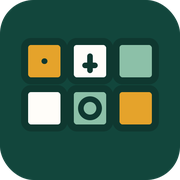
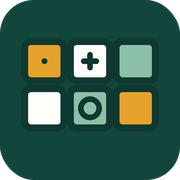
Créditos al día y el «+» del icono centrado
- Créditos: Mulberry Symbols es de Steve Lee con licencia CC BY-SA 4.0
  (su LICENSE.txt); FreeLing también da el tipo de cada palabra; se
  añaden el diccionario RLA-ES y wordfreq; el modelo de PaddleOCR.
- Iconos (favicon, 128, 192, 512, apple-touch-icon y og.png): el «+» de
  la casilla blanca, con los brazos iguales y centrado (parecía una cruz
  del revés). Solo cambian los píxeles de esa casilla.

Claude-Session: https://claude.ai/code/session_01Rh3LhBoqAYUbMpxfxfmBda

Changed region(s): [[0.4444, 0.2778, 0.5556, 0.4167]]

diff --git a/creditos.html b/creditos.html
@@ -41,8 +41,8 @@
         <ul class="creditos">
           <li>
             <span class="que">Mulberry Symbols</span>
-            <span>© Garry Paxton. Nombres traducidos al español para VerboSAAC.</span>
-            <span class="lic">Licencia Creative Commons Reconocimiento-CompartirIgual 2.0 Reino Unido (CC BY-SA 2.0 UK) · <a href="https://mulberrysymbols.org" rel="noopener">mulberrysymbols.org</a> · <a href="https://creativecommons.org/licenses/by-sa/2.0/uk/" rel="noopener">texto de la licencia</a></span>
+            <span>© Steve Lee (diseñados originalmente por Garry Paxton). Nombres traducidos al español para VerboSAAC.</span>
+            <span class="lic">Licencia Creative Commons Reconocimiento-CompartirIgual 4.0 Internacional (CC BY-SA 4.0) · <a href="https://mulberrysymbols.org" rel="noopener">mulberrysymbols.org</a> · <a href="https://creativecommons.org/licenses/by-sa/4.0/deed.es" rel="noopener">texto de la licencia</a></span>
           </li>
           <li>
             <span class="que">Pictogramas propios de VerboSAAC</span>
@@ -68,8 +68,18 @@
           </li>
           <li>
             <span class="que">FreeLing</span>
-            <span>Los datos de conjugación de los verbos se han obtenido de los diccionarios de FreeLing (TALP, Universitat Politècnica de Catalunya).</span>
+            <span>Las conjugaciones de los verbos y el tipo (el color) de cada palabra salen del diccionario español de FreeLing (TALP, Universitat Politècnica de Catalunya).</span>
             <span class="lic"><a href="https://nlp.lsi.upc.edu/freeling/" rel="noopener">nlp.lsi.upc.edu/freeling</a></span>
+          </li>
+          <li>
+            <span class="que">Diccionario RLA-ES</span>
+            <span>Las palabras del español con las que se corrigen las fotos y se separan las palabras pegadas salen del diccionario ortográfico de Hunspell del proyecto RLA-ES.</span>
+            <span class="lic">Licencia GNU GPL 3, GNU LGPL 3 o MPL 1.1, a elegir · <a href="https://github.com/sbosio/rla-es" rel="noopener">github.com/sbosio/rla-es</a></span>
+          </li>
+          <li>
+            <span class="que">wordfreq</span>
+            <span>Frecuencias de las palabras del español para el teclado predictivo, de Robyn Speer (con datos de subtítulos, Wikipedia y otras fuentes).</span>
+            <span class="lic">Datos con licencia CC BY-SA 4.0 · <a href="https://github.com/rspeer/wordfreq" rel="noopener">github.com/rspeer/wordfreq</a></span>
           </li>
         </ul>
 
@@ -77,7 +87,7 @@
         <ul class="creditos">
           <li>
             <span class="que">PaddleOCR</span>
-            <span>© PaddlePaddle Authors.</span>
+            <span>© PaddlePaddle Authors. El lector de fotos usa sus modelos PP-OCRv6 pequeños; el de reconocimiento, adaptado para VerboSAAC.</span>
             <span class="lic">Licencia Apache 2.0 · <a href="https://github.com/PaddlePaddle/PaddleOCR" rel="noopener">github.com/PaddlePaddle/PaddleOCR</a></span>
           </li>
           <li>
